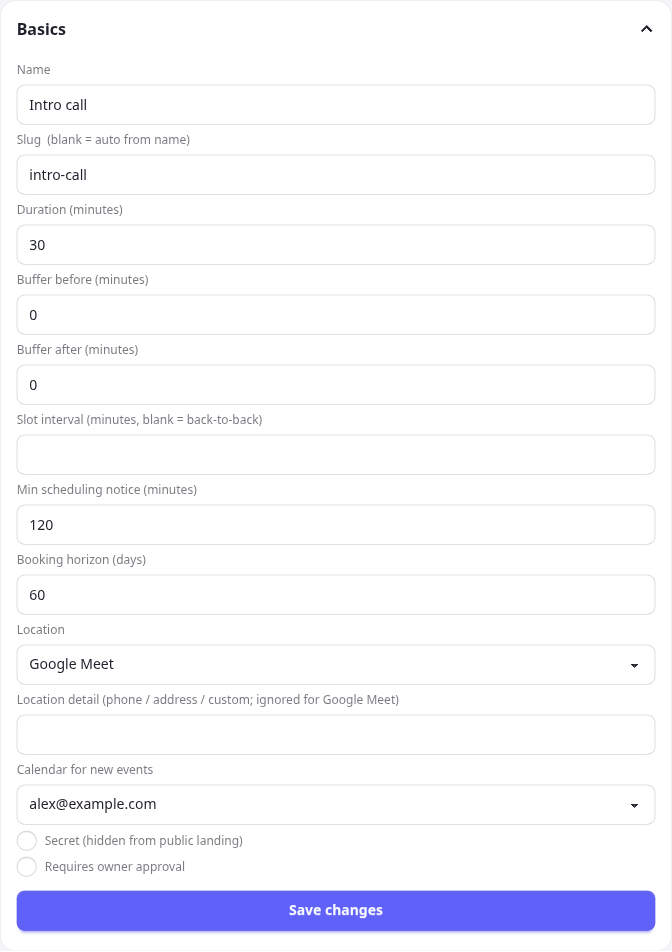
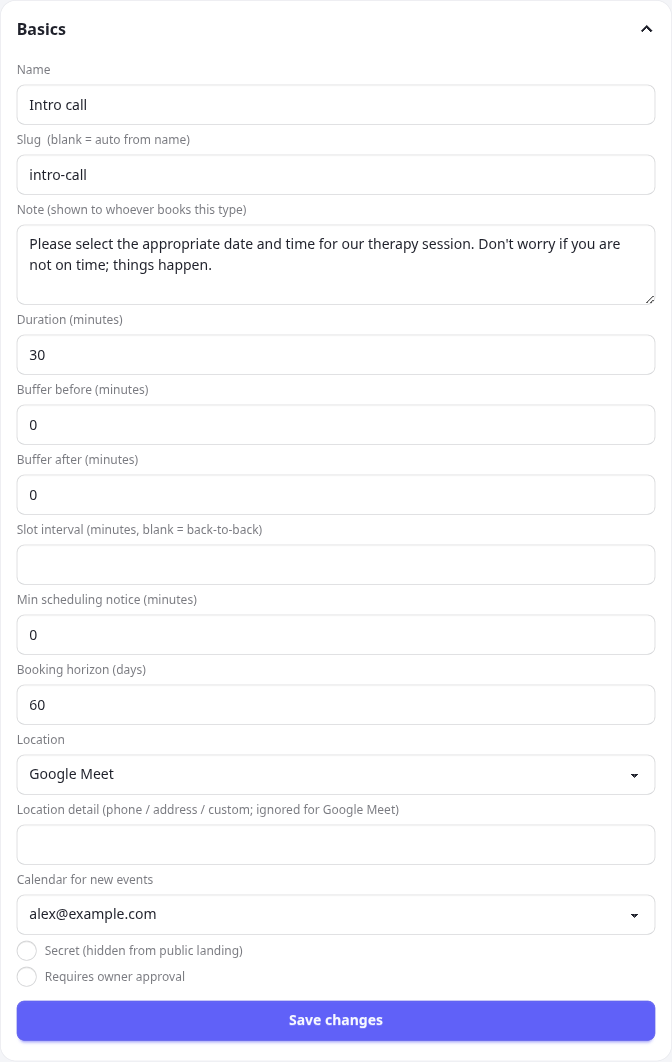
docs(img): reshoot the meeting-type screenshots for the Note field
The Note textarea (PR #172) sits under Slug in the Basics section, so both
the create-form and detail-form shots were stale. Reshot from a live dev
instance seeded to match the originals (Intro call / intro-call, 30 min,
Google Meet, min notice 0, write calendar alex@example.com).

Also adds a booking-page shot to the Note section, which had no image.

diff --git a/docs-site/src/content/docs/usage/meeting-types.md b/docs-site/src/content/docs/usage/meeting-types.md
@@ -48,6 +48,8 @@ Each meeting type can carry a short note for the person booking it — house rul
 
 Write it in the **Note** box in the type's **Basics** section. It appears under the meeting name and duration on the booking page, and on the type's card on your landing page. Clear the box to remove it.
 
+![A meeting type's note on the public booking page](/calit/img/product-booking-note.png)
+
 :::caution
 The note also becomes the description of the calendar event: it is written into the Google Calendar entry and into the `.ics` invite for every booking of that type. Keep anything you would not want in an invitee's calendar out of it.
 :::
